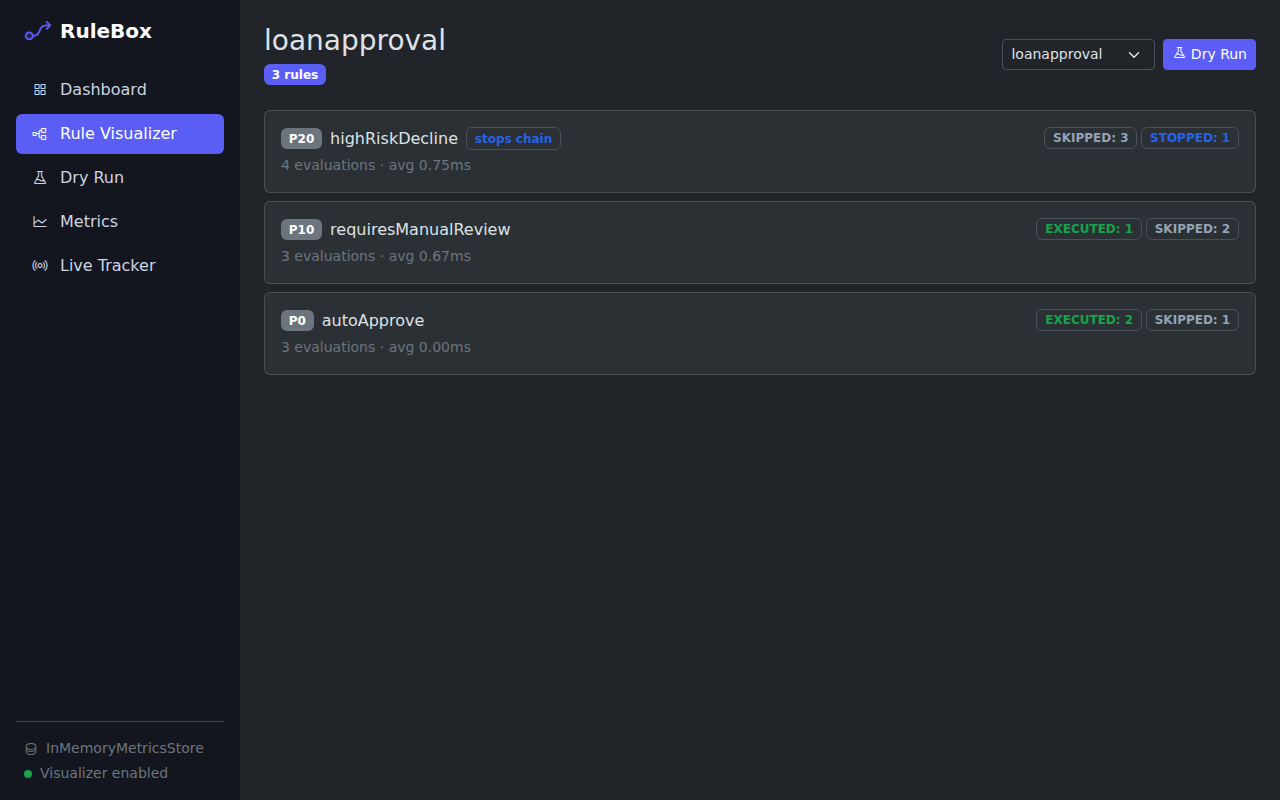
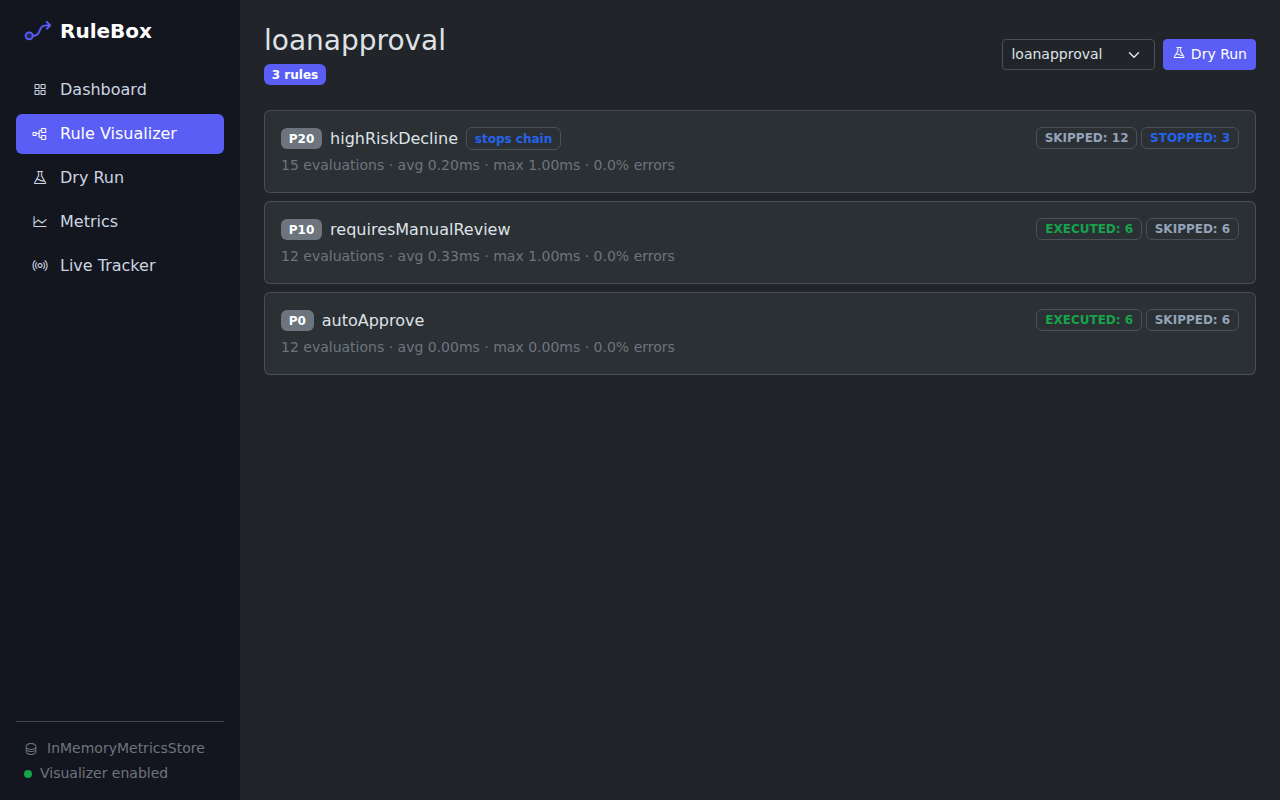
Docs: rule health in the Visualizer and auditing guides, lesson 9, changelog
- Visualizer guide: the Problem rules and Slowest rules panels, the Rule health
  table, how completed/failed/rates/last error are counted, SQLite error
  columns, and the store contract (queryAllRuleMetrics, health fields)
- Auditing guide: the new getRuleMetrics() fields
- Lesson 9 mentions the new panels and failed rows
- Fresh screenshots of the dashboard, metrics, live tracker and chain views

Claude-Session: https://claude.ai/code/session_01Yc5MDcm3tyR2yqPWs9RpgX

diff --git a/docs/guides/visualizer.md b/docs/guides/visualizer.md
@@ -80,7 +80,7 @@ A one-minute tour of every screen:
 Click any screenshot to enlarge it:
 
 ::: image-gallery columns="3"
-::: image src="../assets/visualizer/dashboard.png" alt="The Dashboard: totals, a table of every rulebook with its outcomes, and a recent activity feed" caption="Dashboard"
+::: image src="../assets/visualizer/dashboard.png" alt="The Dashboard: totals, Problem rules and Slowest rules panels, a table of every rulebook with its outcomes and error rate, and a recent activity feed" caption="Dashboard"
 :::
 ::: image src="../assets/visualizer/chain-loanapproval.png" alt="The chain view for the loanapproval rulebook, showing priority badges, a stops-chain marker, and per-rule outcome counts" caption="Rule Visualizer (chain view)"
 :::
@@ -88,9 +88,9 @@ Click any screenshot to enlarge it:
 :::
 ::: image src="../assets/visualizer/dryrun.png" alt="The Dry Run playground: a rulebook picker and JSON facts on the left, which rules would execute on the right" caption="Dry Run"
 :::
-::: image src="../assets/visualizer/metrics.png" alt="The Metrics screen for loanapproval: evaluation count, average and total duration, and outcomes by state" caption="Metrics"
+::: image src="../assets/visualizer/metrics.png" alt="The Metrics screen for fraudcheck: evaluations, average duration, completion and error rates, a rule health table with a failing rule and its last error, and outcomes by state" caption="Metrics"
 :::
-::: image src="../assets/visualizer/live.png" alt="The Live Tracker: a Live badge and a table of rule evaluations streaming in, each with time, rulebook, rule, state and duration" caption="Live Tracker"
+::: image src="../assets/visualizer/live.png" alt="The Live Tracker: a Live badge and a table of rule evaluations streaming in, each with time, rulebook, rule, state and duration, with a FAILED row highlighted and its error shown" caption="Live Tracker"
 :::
 :::
 
@@ -98,10 +98,23 @@ Click any screenshot to enlarge it:
 
 Every declared rulebook (from `moduleSettings.rulebox.rulebooks` and/or your
 convention folder - see the "Externalized Rule Definitions" guide), with its
-rule count, evaluation counts by state, average duration, and a
+rule count, evaluation counts by state, error rate, average duration, and a
 recent-activity feed on the right. A rulebook that fails to load (a bad file
 path, an unregistered action) is flagged with a red marker, like
 `needsaction` above, instead of taking the whole page down.
+
+Two panels above the table answer "which rules need attention?" across every
+declared rulebook:
+
+- **Problem rules:** the five rules with the highest error rate (ties go to
+  the most failures, then the most recent one), each with its last error.
+  Rules that never failed are left out, so an empty panel means nothing has
+  failed.
+- **Slowest rules:** the five rules with the highest average duration, with
+  their maximum.
+
+Click a rule to open its rulebook's chain. See [Rule health](#rule-health) for
+how the numbers are counted.
 
 ### Rule Visualizer
 
@@ -110,7 +123,8 @@ run. Each row shows:
 
 - the rule's **priority** (`P20`, `P10`, `P0`)
 - a **stops chain** marker for rules that call `stop()`
-- the rule's **evaluation count, average duration, and outcomes by state** (`EXECUTED`, `SKIPPED`, `STOPPED`)
+- the rule's **evaluation count, average and maximum duration, error rate, and outcomes by state** (`EXECUTED`, `SKIPPED`, `STOPPED`, `FAILED`)
+- the rule's **last error** (type, message and time), when it has failed
 
 Use the dropdown to switch rulebooks, or **Dry Run** to jump to the playground
 with this rulebook preselected.
@@ -126,15 +140,42 @@ is recorded in your metrics.
 
 ### Metrics
 
-Aggregated stats for one rulebook: total evaluations, average and total
-duration, and a count per outcome state. Pick a rulebook and press
-**Refresh** to re-query.
+Aggregated stats for one rulebook: total evaluations, average duration,
+completion and error rates, and a count per outcome state. Pick a rulebook and
+press **Refresh** to re-query.
+
+The **Rule health** table lists every rule of the rulebook that has run, with
+its evaluations, completion rate, error rate, average and maximum duration,
+and last error. It starts with the highest error rate on top; click any column
+heading to sort by it (click again to flip the order), for example **Avg** to
+find the slow ones.
+
+#### Rule health
+
+Every evaluation of a rule ends in one of the `RULE_STATES`. For health:
+
+- **Completed** counts evaluations that finished without throwing:
+  `EXECUTED`, `SKIPPED` and `STOPPED`. A skipped rule did its job (its
+  condition was false), so it counts as completed.
+- **Failed** counts evaluations that threw (`FAILED`), from a condition, a
+  predicate or an action.
+- **Completion rate** and **error rate** are completed or failed divided by
+  all evaluations. Both are `0` before the first evaluation.
+- **Last error** is the most recent failure's exception **type** and
+  **message**, cut to 500 characters, and when it happened. RuleBox never keeps
+  the stack trace or the exception's detail, which can carry data you don't
+  want on a dashboard. The exception is still re-thrown to your code.
+
+RuleBox has no per-rule timeouts, so a slow rule shows up through its average
+and maximum duration rather than as a failure.
 
 ### Live Tracker
 
 Every rule evaluation, across every rulebook, streamed to the browser as it
 happens via [BoxLang's `SSE()`](https://boxlang.ortusbooks.com/boxlang-framework/server-sent-events).
-Each row shows the time, rulebook, rule, outcome state, and duration. Use
+Each row shows the time, rulebook, rule, outcome state, and duration. A
+`FAILED` row is highlighted in red with the error type and message under the
+rule name. Use
 **Pause** to freeze the table while you read it; the table keeps the latest
 200 rows.
 
@@ -242,6 +283,12 @@ under `visualizer` and are optional:
 - The `rulebox_events` table has an index on `(rulebookName, ruleName, id)` for
   the per-rule metrics queries (created automatically; existing tables get it
   on the next startup).
+- A `FAILED` event stores its error type and message in the `errorType` and
+  `errorMessage` columns. A table created by an older RuleBox gets both
+  columns added in place on the next startup; its existing rows have no error
+  details.
+- Rule health is computed from the stored events, so retention also limits
+  it: once a rule's last failure is pruned, it no longer has a last error.
 - If writes keep failing (a missing datasource, a locked or full database), the
   store logs **one** error when the breaker opens, skips persistence for the
   cool-down (live broadcast keeps working), then retries once and logs **one**
@@ -255,9 +302,23 @@ under `visualizer` and are optional:
 ### Swapping it out
 
 Implement `IMetricsStore@rulebox` (`recordEvent`, `queryEvents`,
-`queryRuleBookSummary`, `queryRuleMetrics`, `queryRuleBookNames`, `reset`)
-and point `metricsStore` at your WireBox mapping - a Redis-backed store, a
-real RDBMS table via `qb`, whatever fits your app.
+`queryRuleBookSummary`, `queryRuleMetrics`, `queryAllRuleMetrics`,
+`queryRuleBookNames`, `reset`) and point `metricsStore` at your WireBox
+mapping - a Redis-backed store, a real RDBMS table via `qb`, whatever fits
+your app.
+
+The interface's docblocks describe each shape. In short:
+
+- A `FAILED` event passed to `recordEvent()` carries `errorType` and
+  `errorMessage`; `queryEvents()` returns them on `FAILED` events only.
+- Summaries add `completed`, `failed`, `completionRate`, `errorRate` and
+  `avgDurationMs`. `rulebox.models.metrics.RuleHealth::of( countsByState,
+  totalEvaluations, totalDurationMs )` computes them, so your store reports
+  them the same way.
+- Rule metrics also add `minDurationMs`, `maxDurationMs`, `lastRunAt`, and
+  `lastError` (`{ type, message, at }`) once the rule has failed.
+- `queryAllRuleMetrics( rulebookName )` returns the rule metrics of every rule
+  that has run, for the dashboard panels and the Rule health table.
 
 ## What it doesn't do
 

diff --git a/docs/course/09-the-visualizer.md b/docs/course/09-the-visualizer.md
@@ -52,13 +52,13 @@ Restart your app, then open:
 </figure>
 
 ::: image-gallery columns="3"
-::: image src="../assets/visualizer/dashboard.png" alt="The Dashboard: totals, a table of every rulebook with its outcomes, and a recent activity feed" caption="Dashboard"
+::: image src="../assets/visualizer/dashboard.png" alt="The Dashboard: totals, Problem rules and Slowest rules panels, a table of every rulebook with its outcomes, and a recent activity feed" caption="Dashboard"
 :::
 ::: image src="../assets/visualizer/chain-loanapproval.png" alt="The chain view for a rulebook, showing priority badges, a stops-chain marker and per-rule outcome counts" caption="Rule Visualizer"
 :::
 ::: image src="../assets/visualizer/dryrun.png" alt="The Dry Run screen: facts as JSON on the left, which rules would execute on the right" caption="Dry Run"
 :::
-::: image src="../assets/visualizer/metrics.png" alt="The Metrics screen: evaluation count, average duration and outcomes by state" caption="Metrics"
+::: image src="../assets/visualizer/metrics.png" alt="The Metrics screen: evaluation count, average duration, completion and error rates, a rule health table and outcomes by state" caption="Metrics"
 :::
 ::: image src="../assets/visualizer/live.png" alt="The Live Tracker: rule evaluations streaming in as they run" caption="Live Tracker"
 :::
@@ -67,7 +67,9 @@ Restart your app, then open:
 The sidebar links the five screens.
 
 **Dashboard.** Every rulebook you declared, with its rule count, results and
-a feed of recent activity. Your `loan` rulebook is here.
+a feed of recent activity. Your `loan` rulebook is here. Above it, **Problem
+rules** lists the rules that fail most and **Slowest rules** the ones that take
+longest, so you know where to look first.
 
 **Rule Visualizer.** Click **View chain** on a rulebook to see its rules in
 the order they really run, with their priorities and which ones stop the
@@ -78,10 +80,14 @@ chain. This is lesson 4 as a picture.
 lesson 5 with a button. Nothing is executed or recorded.
 
 **Metrics.** Totals and averages per rulebook, gathered across every run, not
-just one RuleBook instance.
+just one RuleBook instance. The **Rule health** table shows each rule's
+completion rate, error rate, durations and last error. Remember lesson 8: when
+a rule throws, the error still reaches your code, and the Visualizer also
+records its type and message here.
 
 **Live Tracker.** Every rule evaluation, as it happens. Run your handler
-from lesson 7 in another tab and watch the rows arrive.
+from lesson 7 in another tab and watch the rows arrive. A failed evaluation
+shows up in red with its error.
 
 > The Live Tracker needs BoxLang **1.18.0 or later**. The other four screens
 > work on older versions.

diff --git a/docs/guides/auditing.md b/docs/guides/auditing.md
@@ -121,12 +121,29 @@ writeDump( metrics )
 	"name"             : "creditScoreAdjustment",
 	"totalEvaluations" : 42,
 	"countsByState"    : { "EXECUTED" : 30, "SKIPPED" : 10, "STOPPED" : 1, "FAILED" : 1 },
-	"totalDurationMs"  : 1234
+	"totalDurationMs"  : 1234,
+	"avgDurationMs"    : 29.38,
+	"completed"        : 41,
+	"failed"           : 1,
+	"completionRate"   : 0.976,
+	"errorRate"        : 0.024,
+	"lastError"        : {
+		"type"    : "CreditService.TimeoutException",
+		"message" : "Credit service did not answer in time",
+		"at"      : "2026-10-05T16:54:53"
+	}
 	// ...plus minDurationMs, maxDurationMs, lastDurationMs, firstRunAt, lastRunAt
 }
 ```
 
 - `countsByState` uses the same `RULE_STATES` values as the audit trail
+- `completed` counts evaluations that finished without throwing (`EXECUTED`,
+  `SKIPPED`, `STOPPED`); `failed` counts the ones that threw (`FAILED`). The
+  rates divide them by `totalEvaluations` and are `0` before the first run
+- `lastError` appears once the rule has failed: the exception's type and
+  message (cut to 500 characters) and when it happened. The stack trace and
+  the exception's detail are never kept, and the exception is still re-thrown
+  to your code
 - Duration covers the whole evaluation, so a rule that is slow to *check*
   shows up even when it never fires
 - A rule that was never evaluated (or doesn't exist) returns the same

diff --git a/changelog.md b/changelog.md
@@ -11,6 +11,10 @@ and this project adheres to [Semantic Versioning](https://semver.org/spec/v2.0.0
 
 ### Added
 
+- Rule health in the Rule Visualizer: see which rules fail, how often, and which are slow. The dashboard gains "Problem rules" (by error rate, with the last error) and "Slowest rules" (by average duration) panels; the Metrics screen gains completion and error rates and a sortable per-rule health table; the chain view shows each rule's error rate and last error; the Live Tracker highlights `FAILED` rows with their error
+- `RuleBook.getRuleMetrics()` adds `completed`, `failed`, `completionRate`, `errorRate`, `avgDurationMs` and, once a rule fails, `lastError` (`{ type, message, at }`, the message cut to 500 characters, never the stack trace)
+- `IMetricsStore.queryAllRuleMetrics( rulebookName )`, and the same health fields on every store summary. A `FAILED` event carries `errorType` and `errorMessage`. `SQLiteMetricsStore` adds `errorType`/`errorMessage` columns to an existing `rulebox_events` table on startup. A custom store must implement the new method
+
 - GitHub actions upgrades
 - AI integrations and instructions
 - TestBox UI integration
